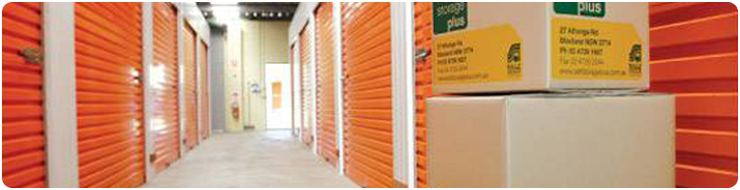
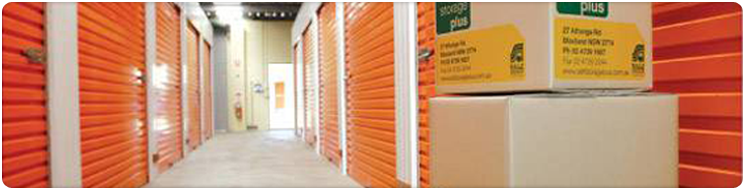
night

diff --git a/public/stylesheets/themes/storagelocator/style.css b/public/stylesheets/themes/storagelocator/style.css
@@ -144,9 +144,9 @@ input#narrow{border:1px solid #ccc;border-radius:8px;-moz-border-radius:8px;-web
 .rslt-head-txt > p{float:left;font-weight:bold;margin:6px 0;}
 .rslt-head-txt .pagination{margin:5px 0;}
 .rslt-head-txt > p span{color:#333;}
-.green-head{width:742px;margin:15px 0;float:left;position:relative;left:15px;}
+.green-head{width:745px;margin:15px 0;float:left;position:relative;left:15px;}
 /* This is where you would insert your images for the header on each page You would need to define a new header id for each page though */
-#tips-head{border-radius:12px;height:190px;-moz-border-radius:12px;-webkit-border-radius:12px;background:#000;position:relative;overflow:hidden;width:740px;}
+#tips-head{border-radius:12px;height:190px;-moz-border-radius:12px;-webkit-border-radius:12px;background:#000;position:relative;overflow:hidden;width:745px;}
 #tips-head #tips-hdr{position:absolute;z-index:750;}
 #tips-head .purple_bgs,#tips-head .bubble{position:absolute;height:100px;width:100px;display:none;}
 #tips-head .bubble{z-index:800;text-align:center;}
